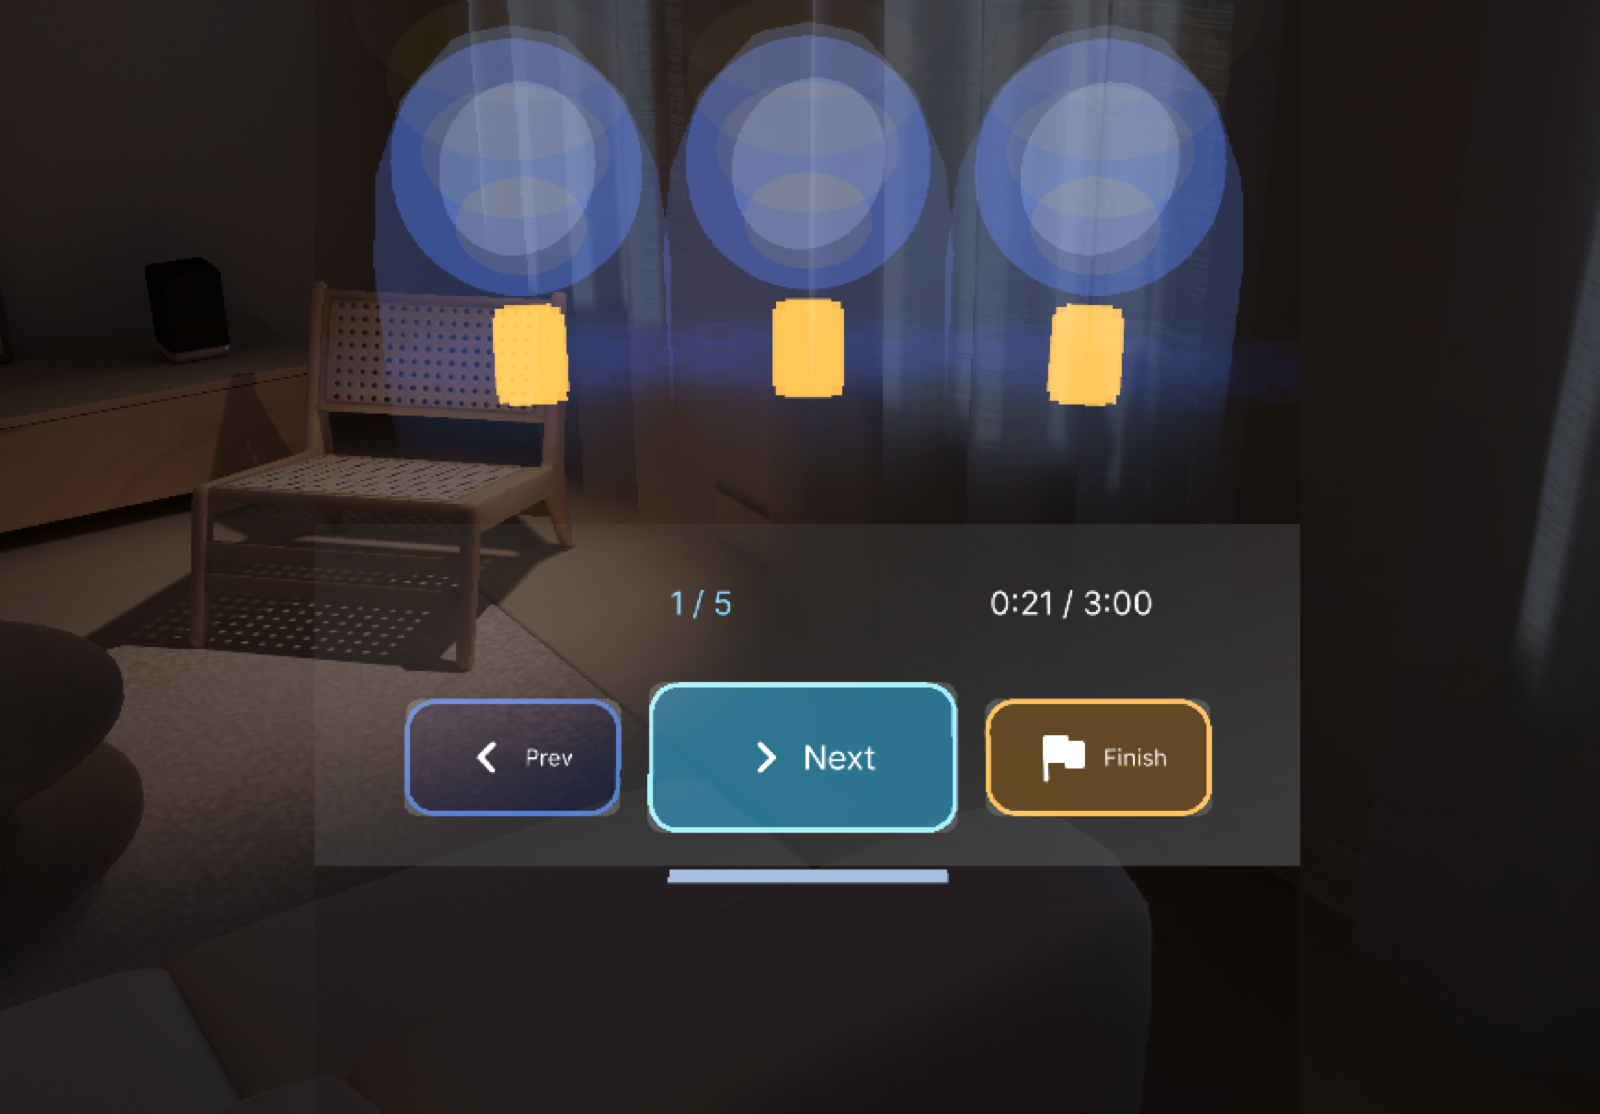
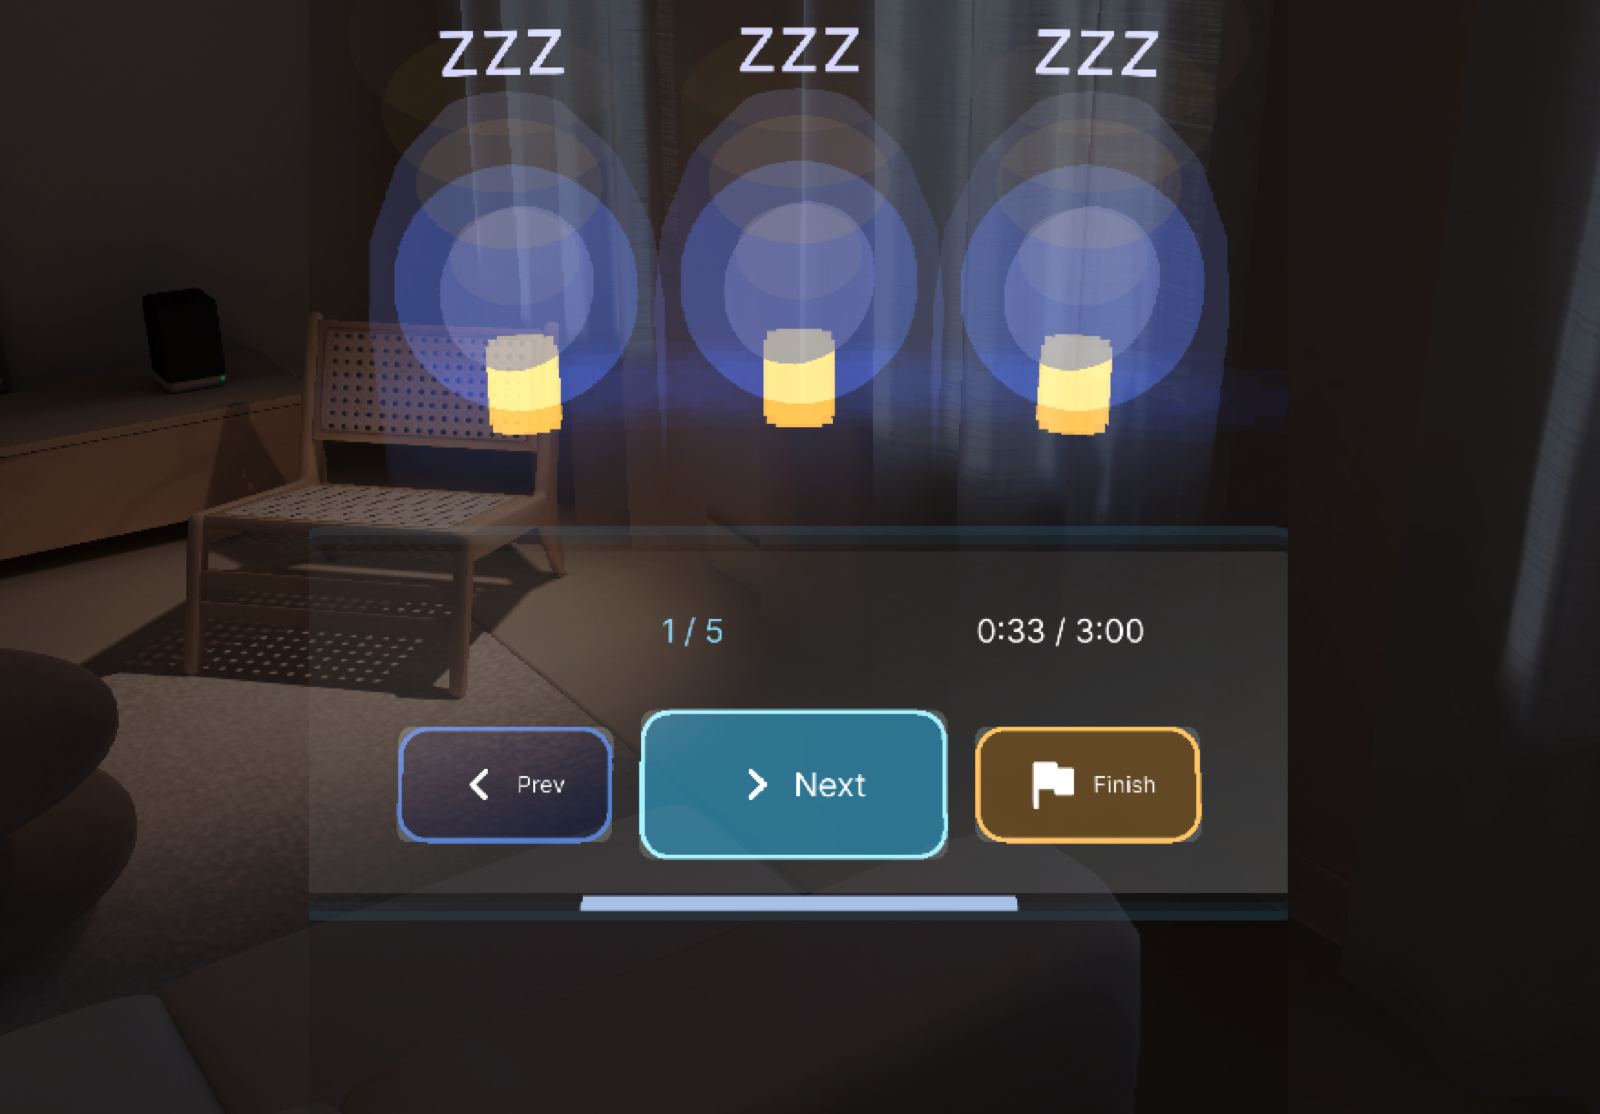
feat: design cycle 4 - G5 panel glow (1 cm cyan falloff) on every panel, G9 larger nudge chevron at frame edge, refreshed stills, 183 tests, 10 LEAF

diff --git a/Assets/Scripts/EyesUpApp.ts b/Assets/Scripts/EyesUpApp.ts
@@ -34,7 +34,7 @@ import { PillRect } from './core/PillHit';
 import { ChevronBox, PlaneRect, placeChevron } from './core/ChevronPlacement';
 import { podiumState } from './core/PodiumModel';
 import { Vec3Like } from './core/math';
-import { ACCENT_CYAN, AUDIENCE_RENDER_ORDER, PANEL_FILL, addCircleRing, PANEL_STROKE, TEXT_LABEL, TEXT_PRIMARY, TEXT_SECONDARY, addDot, addIcon, addRoundedSurface, addSurface, child, faceTowards } from './EyesUpUI';
+import { ACCENT_CYAN, AUDIENCE_RENDER_ORDER, PANEL_FILL, addCircleRing, addPanelGlow, PANEL_STROKE, TEXT_LABEL, TEXT_PRIMARY, TEXT_SECONDARY, addDot, addIcon, addRoundedSurface, addSurface, child, faceTowards } from './EyesUpUI';
 import { METER_ABOVE_CM, METER_CAPSULE_H_CM, METER_WIDTH_CM } from './RoomMeter';
 
 /**
@@ -42,22 +42,22 @@ import { METER_ABOVE_CM, METER_CAPSULE_H_CM, METER_WIDTH_CM } from './RoomMeter'
  * keyboard_double_arrow_*) above a "left" / "right" caption. The hint's scene Text (±20 cm, 100 cm
  * ahead of the camera) becomes the caption; the icon is added at awake 4 cm above it.
  */
-const CHEVRON_CM = 7.6;
-const CHEVRON_ICON_Y = 6.9;
+const CHEVRON_CM = 9.4;
+const CHEVRON_ICON_Y = 9;
 /**
  * Cycle 1 (D9): a dark backing circle (r 5.6 cm) with an amber hairline behind the double chevron, so it reads on a beige room, a "Look left" /
  * "Look right" caption in Body, and the 1 Hz pulse. Extents about the hint origin (cm), used for placement only.
  */
-const CHEVRON_BACK_R = 5.6;
-const CHEVRON_EXT_HALF_W = 5.9;
+const CHEVRON_BACK_R = 7;
+const CHEVRON_EXT_HALF_W = 7.3;
 const CHEVRON_EXT_BELOW = 2.3;
-const CHEVRON_EXT_ABOVE = 12.8;
+const CHEVRON_EXT_ABOVE = 16.3;
 /** A member's body is about this wide (half, cm in the stage) for the chevron's keep-clear rects. */
 const MEMBER_BODY_HALF_W_CM = 26;
 /** Round 7: hint x offset (was 20) and drop so the backing clears the opening pill's corner in the nudge still. */
 const CHEVRON_X_CM = 21.5;
-/** Round 7: hint dropped this far so the backing's top edge sits below the pill's bottom edge. */
-const CHEVRON_DROP_CM = 8.5;
+/** Cycle 4 (G9): the disc + caption block sits at the vertical centre of the frame, its outer edge this far from the FOV edge (cm in the plane). */
+const CHEVRON_EDGE_GAP_CM = 3;
 /** Hint plane: the chevron is head-locked 100 cm ahead; panels are projected into that plane for placement. */
 const CHEVRON_PLANE_CM = 100;
 /** Clear gap kept between the chevron backing and any panel (cm in the plane). */
@@ -221,7 +221,7 @@ export class EyesUpApp extends BaseScriptComponent {
     [this.edgeHintLeft, this.edgeHintRight].forEach((so, i) => {
       if (!so) return;
       const hp = so.getTransform().getLocalPosition();
-      this.hintBase[i] = new vec3((i === 0 ? -1 : 1) * CHEVRON_X_CM, hp.y - CHEVRON_DROP_CM, hp.z);
+      this.hintBase[i] = new vec3((i === 0 ? -1 : 1) * CHEVRON_X_CM, -(CHEVRON_BOX.above - CHEVRON_BOX.below) / 2, hp.z);
       so.getTransform().setLocalPosition(this.hintBase[i]);
       const t = so.getComponent('Component.Text') as Text;
       if (t) {
@@ -503,13 +503,15 @@ export class EyesUpApp extends BaseScriptComponent {
     const cam = this.camera.getComponent('Component.Camera') as Camera;
     const halfH = CHEVRON_PLANE_CM * Math.tan(cam.fov / 2);
     const base = this.hintBase[i];
+    const halfW = halfH * cam.aspect; // the Lens frustum (the Preview paints the room wider than the Lens renders)
+    base.x = (i === 0 ? -1 : 1) * (halfW - CHEVRON_EDGE_GAP_CM - CHEVRON_BOX.halfW);
     const place = (extra: PlaneRect[]) =>
       placeChevron(
         i === 0 ? 'left' : 'right',
         { x: base.x, y: base.y },
         CHEVRON_BOX,
         [...panels, ...extra],
-        { margin: CHEVRON_PANEL_MARGIN_CM, viewHalfW: halfH * cam.aspect, viewHalfH: halfH },
+        { margin: CHEVRON_PANEL_MARGIN_CM, viewHalfW: halfW, viewHalfH: halfH },
       );
     const withMeter = (rects: PlaneRect[]) => (meterRect ? [...rects, meterRect] : rects);
     // Heads and halos are hard no-go (Cycle 6, D1): prefer wall clear of whole silhouettes and the meter, then clear of heads and the meter, then of heads only.
@@ -568,6 +570,7 @@ export class EyesUpApp extends BaseScriptComponent {
   private buildCueCard(): void {
     if (!this.cueCard || !this.cueCardTitle || !this.cueCardBody) return;
     this.cardBg = child(this.cueCard, 'CardBg', new vec3(0, 0, -0.6));
+    addPanelGlow(child(this.cardBg, 'SurfaceGlow', new vec3(0, CARD_CENTER_Y, -0.05)), CARD_W, CARD_H, CARD_RADIUS, 0, -1);
     addRoundedSurface(child(this.cardBg, 'Surface', new vec3(0, CARD_CENTER_Y, 0)), CARD_W, CARD_H, 0, PANEL_FILL, PANEL_STROKE, CARD_RADIUS);
     addRoundedSurface(child(this.cardBg, 'Accent', new vec3(CARD_ACCENT_X, CARD_TITLE_Y, 0.1)), 0.9, 6.6, 0, ACCENT_CYAN, null, 0.45);
     this.countdownPivot = child(this.cardBg, 'Countdown', new vec3(-CARD_COUNTDOWN_W / 2, CARD_COUNTDOWN_Y, 0.1));

diff --git a/Assets/Scripts/EyesUpUI.ts b/Assets/Scripts/EyesUpUI.ts
@@ -119,6 +119,13 @@ export const PANEL_STROKE_CM = 0.24;
 export const AUDIENCE_RENDER_ORDER = -20;
 export const PANEL_BACKDROP_ORDER = -10;
 const BUTTON_STROKE_CM = 0.18;
+/**
+ * Cycle 4 (G5): the shared panel material's soft outer glow, a 1 cm cyan falloff at 20 % (three stepped bands: 20 / 12 / 5 %) just
+ * outside the stroke, so a panel reads as light on the additive display. Drawn after the audience, before the panel fill.
+ */
+export const PANEL_GLOW_CM = 1;
+const PANEL_GLOW_BANDS = [0.2, 0.12, 0.05];
+export const PANEL_GLOW_ORDER = PANEL_BACKDROP_ORDER - 1;
 const SURFACE_FILL = PANEL_FILL;
 const SURFACE_BORDER = PANEL_STROKE;
 /** Button faces: brighter blue-grey than the surface, with a light frame. */
@@ -266,6 +273,18 @@ export function addRoundedSurface(parent: SceneObject, w: number, h: number, z: 
   return f;
 }
 
+/** Cycle 4 (G5): the panel glow (concentric rounded bands around a w x h panel); `order` is the render order of every band. Returns the root. */
+export function addPanelGlow(parent: SceneObject, w: number, h: number, radius: number, z: number, order: number = PANEL_GLOW_ORDER): SceneObject {
+  const root = child(parent, 'Glow', new vec3(0, 0, z));
+  const band = PANEL_GLOW_CM / PANEL_GLOW_BANDS.length;
+  PANEL_GLOW_BANDS.forEach((a, k) => {
+    const grow = PANEL_GLOW_CM - k * band; // outer edge, in cm beyond the panel edge
+    const v = meshVisual(root, `Band${k}`, roundedRingMesh(w + 2 * grow, h + 2 * grow, radius + grow, band), 0, new vec4(0x5f / 255, 0xd4 / 255, 1, a));
+    v.setRenderOrder(order);
+  });
+  return root;
+}
+
 /** A ring (circle outline) of outer radius `radius` cm and `thickness` cm, centred on `parent`. */
 export function addCircleRing(parent: SceneObject, name: string, radius: number, thickness: number, z: number, color: vec4): RenderMeshVisual {
   return meshVisual(child(parent, name), 'Ring', roundedRingMesh(radius * 2, radius * 2, radius, thickness), z, color);
@@ -383,6 +402,7 @@ export function makePanel(host: SceneObject, widthCm: number, heightCm: number, 
   const backPlate = root.createComponent(BackPlate.getTypeName()) as BackPlate;
   backPlate.style = 'dark';
   backPlate.size = new vec2(widthCm, heightCm);
+  addPanelGlow(root, widthCm, heightCm, PANEL_RADIUS_CM, 0);
   const backdrop = addRoundedSurface(root, widthCm, heightCm, 0, SURFACE_FILL, SURFACE_BORDER, PANEL_RADIUS_CM); // drawn before Content
   backdrop.setRenderOrder(PANEL_BACKDROP_ORDER);
   (root.getChild(root.getChildrenCount() - 1).getComponent('Component.RenderMeshVisual') as RenderMeshVisual | null)?.setRenderOrder(PANEL_BACKDROP_ORDER + 1); // its stroke ring

diff --git a/docs/spec-matrix.md b/docs/spec-matrix.md
@@ -290,3 +290,18 @@ Deviations: (1) the dimmer is a plate behind each panel and the audience, not on
 | F8 | room meter | pill and bar differed in height, 1 px tick, off-centre, touching the lit head | one capsule (53 x 5.3 cm in stage space, the 24 x 2.4 cm spec scaled about 2.2x for the 2.5 m distance), centred on the audience, 4 cm above the lit head top; fill cyan at 70 % or above, amber below, coral below 40 % (`METER_GOOD_AT` 0.7, `METER_MID_AT` 0.4, unit tested); 1 cm (3 px) white tick at 70 % with a "target" caption; "Room NN%" is one caption line above the capsule's left end | match, 1 deviation | 02, 04, 10, 11 |
 
 Deviations: (1) the audience is separated from panels by render order only, not a 0.5 cm depth offset: the silhouettes are 3D meshes that are billboarded at different depths, and fixed render order is what actually decides the draw order in the Preview (a depth offset would not survive the 2.5 m perspective). (2) The Preview draws all quads like an additive display, so a dark plate still reads as a faint lighter patch over the wall; on glasses it is clear. The label "Room NN%" sits above the capsule instead of inside it, so the fill stays one clean shape. Known: at the very peak of a perk-up burst the ring (about 26 cm from the head centre) can touch the capsule; the stills use the frame before the peak. Stills 12 and 13 are unchanged.
+
+## Design cycle 4 (2026-11-06): G5 panel glow, G9 larger nudge chevron
+
+Verified in the Interactive Preview (scene "Evening Room") with window captures that were looked at. `npm run check` 183/183. Preview only, not tested on a Spectacles device.
+
+| id | screen | problem | change | status | evidence |
+|---|---|---|---|---|---|
+| G5 | Setup, cue card, podium, Summary | the material (navy #070D22 at 90 %, 0.24 cm #9CC4FF stroke at 55 %) was already shared, but panels had no light of their own and read as flat slabs over the room | `addPanelGlow` in `EyesUpUI.ts`: a 1 cm cyan (#5FD4FF) falloff outside the stroke, three stepped bands at 20 / 12 / 5 %, render order `PANEL_GLOW_ORDER` (-11, after the audience, before the panel fill); used by `makePanel` (Setup, podium, Summary) and the cue card | match (preview) | devpost 01, 04, 05, 06; walkthrough 01, 04, 05, 06 |
+| G9 | nudge chevron | small disc beside the slumped heads | disc radius 5.6 -> 7 cm, icon 7.6 -> 9.4 cm, caption kept, 1 Hz pulse kept; the block is centred vertically on the frame and its outer edge sits 3 cm inside the Lens frustum edge (`CHEVRON_EDGE_GAP_CM`, computed from camera fov and aspect); `placeChevron` still moves it clear of heads, "zzz", meter, pill, podium; existing 3 s timeout and turn-to-dismiss unchanged | partial (preview) | 03-nudge-chevron.png |
+
+Deviations and disclosures:
+- Evening Room: the capture environment stays "Evening Room", the darkest of the six Interactive Preview scenes (it was chosen in cycle 2 because "Sunlit Room" washed panels to grey-lavender). It is a dark brown, not the bluer room asked for; a bluer preview environment is not available in this Lens Studio build. The submission therefore shows the panels over a dark brown room, as the Preview paints it.
+- Glow is stepped bands, not a blur: Lens Studio's unlit material has no blur pass, so three concentric rounded rings at falling alpha approximate the 1 cm / 20 % spec. On the Preview it is faint over the brown room.
+- Chevron "vertical centre": when a slumped head, "zzz" or the room meter occupies the frame centre (the usual case at the left and right members) the placement rule moves it to the nearest clear spot, so in the nudge still it sits just above the heads, not exactly at mid-height. Disc radius read as 7 cm (the old radius was 5.6 cm, so a 7 cm diameter would shrink it).
+- The Preview paints the room wider than the Lens frustum (camera aspect 0.88), so the 3 cm edge gap is measured against the Lens frustum, which is the area the glasses display.

diff --git a/devpost/build-notes.md b/devpost/build-notes.md
@@ -963,3 +963,12 @@ Visual design only; logic untouched apart from the meter tone thresholds (cyan f
 - **F8.** `RoomMeter.ts` rewritten as one capsule with a 70 % tick and a "target" caption; `EyesUpApp.ts` places it 4 cm above the lit head top (`LIT_HEAD_TOP_CM`) on the audience centre line and keeps the cue card 9.5 cm above it as before.
 - **Captures.** Window recordings of `capture_game`, `capture_nudge_hold`, `capture_summary`, podium pass; all frames looked at. 00, 01 to 06, 06b, 09, 10, 10b, 11, 14 and walkthrough 01 to 08 refreshed (10b numbers corrected to 40 % / 89 %; `submission.md` captions updated). Screenshot 11 now uses a pre-peak burst frame.
 - **Known.** Podium and Summary panels still read as a lighter plate in the Preview (additive). Flat floor-shadow bars remain.
+
+## Design cycle 4 (2026-11-06): G5 and G9
+
+Visual design only; no logic changes. `npm run check`: 183 tests green. All 10 LEAF scenarios PASSED (`scripts/video/leaf-all.sh`). Preview only, not tested on a Spectacles device.
+
+- **G5.** `EyesUpUI.ts`: new `addPanelGlow` (1 cm cyan falloff, three bands at 20 / 12 / 5 %, render order -11) added behind the Setup, podium and Summary backdrops (`makePanel`) and the cue card (`EyesUpApp.ts buildCueCard`). The panel fill and stroke were already #070D22 at 90 % and #9CC4FF at 55 %. Evening Room stays the capture environment (disclosed in `docs/spec-matrix.md`).
+- **G9.** `EyesUpApp.ts`: chevron disc radius 7 cm, icon 9.4 cm, hint block centred vertically, outer edge 3 cm inside the Lens frustum (computed from camera fov and aspect; the Preview camera reports aspect 0.88, narrower than the room image the Preview paints). Chevron placement tests unchanged and green.
+- **Captures.** Window recordings of `capture_nudge_hold`, `capture_game`, `capture_summary`, `capture_podium` (camera pitched down for the podium); frames looked at. devpost 01, 03, 04, 05, 06 and walkthrough 01, 03, 04, 05, 06 refreshed. The demo video was not re-recorded.
+- **Known.** The glow is faint over the dark brown Preview room; podium and Summary still read as a lighter plate in the Preview; in some frames (upright heads, no zzz) the chevron lands over a member's body instead of the wall above.
